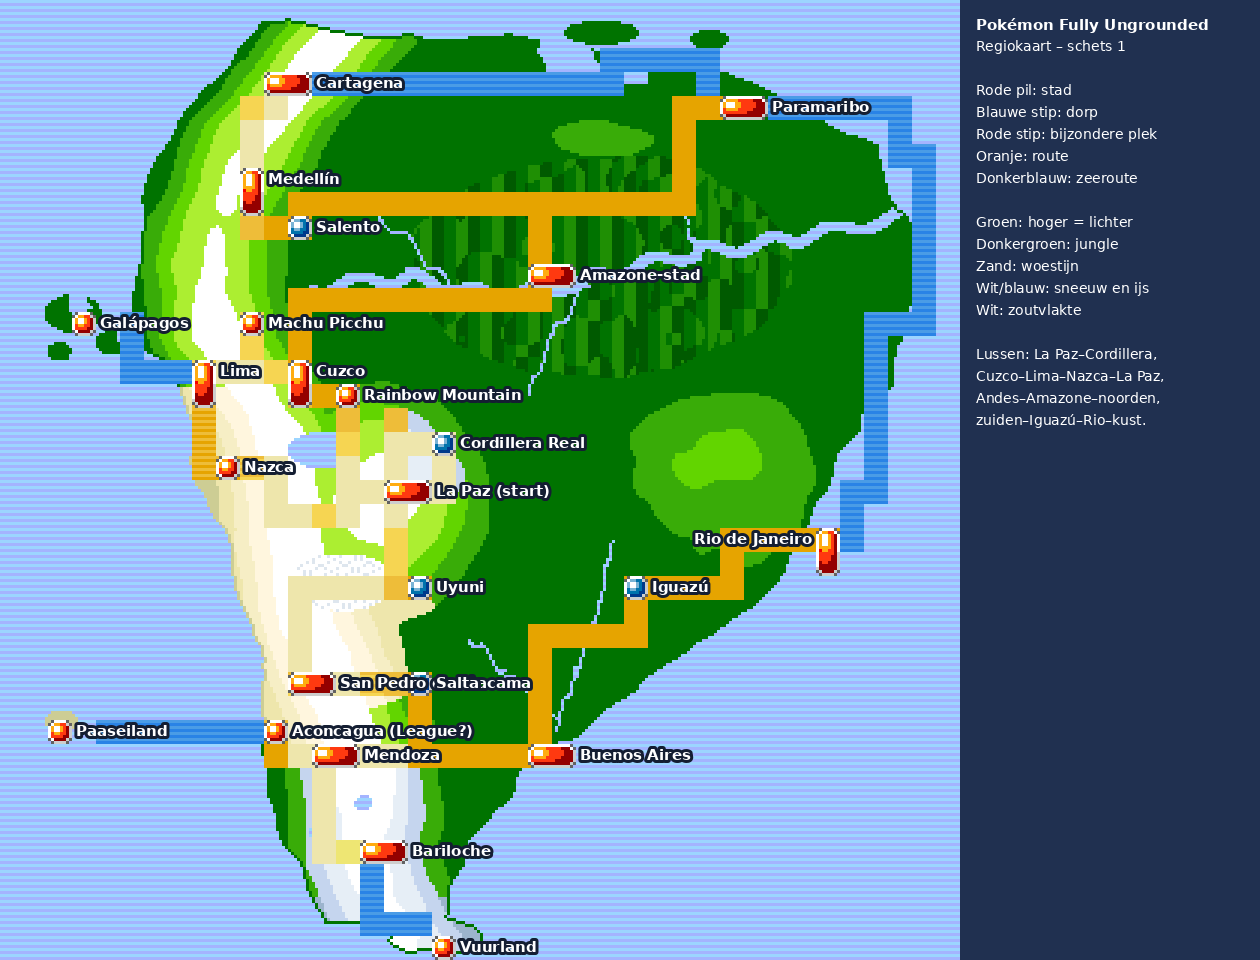
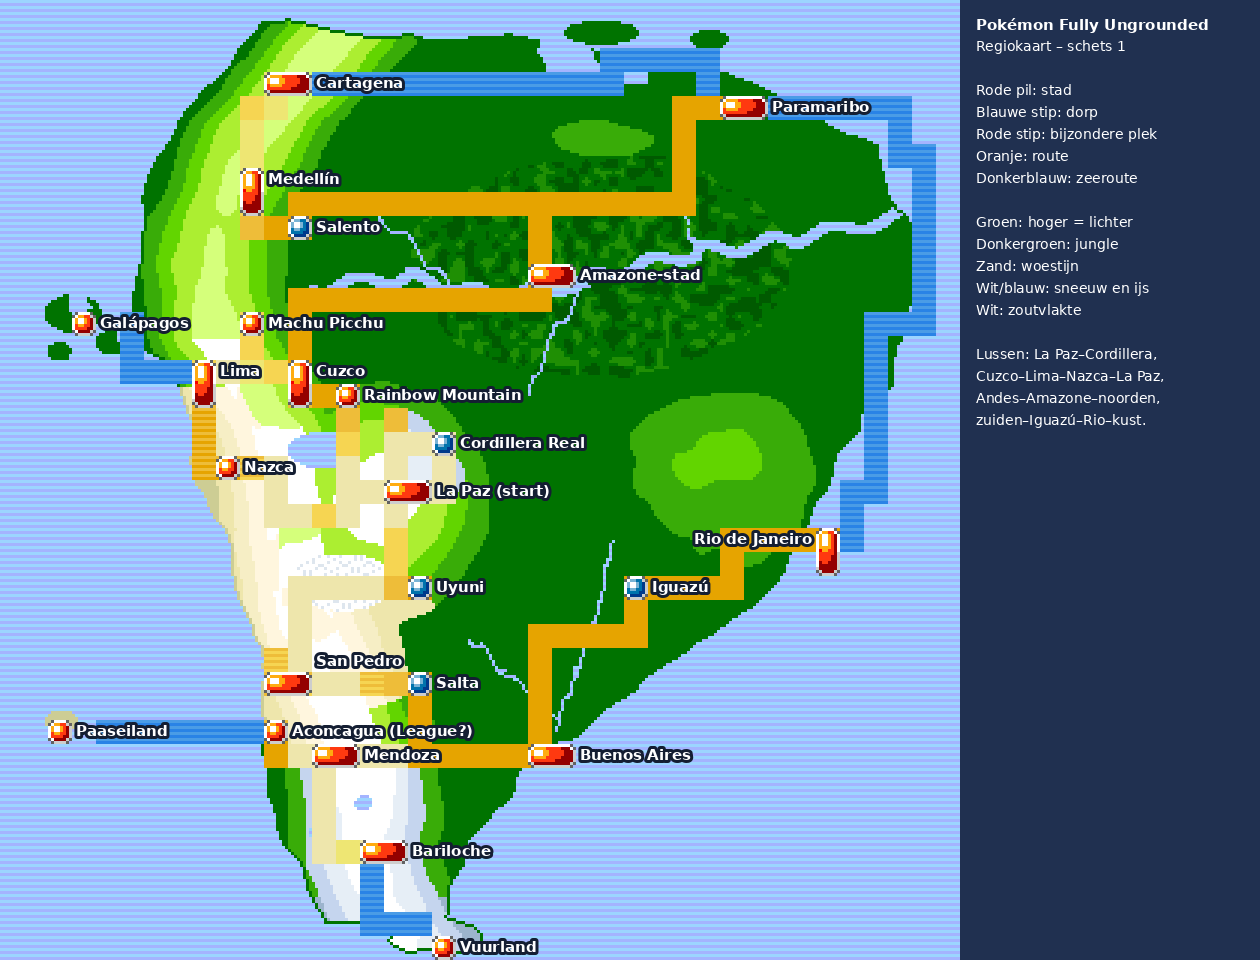
Concept: gym 1 Ground (Uyuni), backtracken/optionele content, regiokaart schets 1; changelog v0.0.2
Claude-Session: https://claude.ai/code/session_01UMtTpeD9zcUCxU9dCVsRtf

diff --git a/tools/concept/regiokaart.py b/tools/concept/regiokaart.py
@@ -87,7 +87,7 @@ desert = land & (cy > 16) & (cy < 31) & (cx < ridge - 0.6 + (n - 0.5) * 2)
 biome[desert] = 2
 puna = land & ellipse(14.5, 26.5, 4, 3) & (lvl >= 1)          # Atacama-hoogland
 biome[puna] = 2
-snow = land & (((lvl >= 4) & (cy < 31)) | ((cy > 31) & (lvl >= 2)) | (cy > 37.3)
+snow = land & (((lvl >= 4) & (cy < 31) & (n > 0.5) & (cy > 14)) | ((cy > 31) & (lvl >= 2)) | (cy > 37.3)
                | (ellipse(18, 18.5, 1.8, 2.3) & (lvl >= 2)))   # Cordillera Real naast de startstad
 biome[snow] = 3
 salt = ellipse(14.2, 24.2, 2.2, 1.2) & (n > 0.3)
@@ -127,7 +127,8 @@ def paint(mask, pal, idx):
         img[mask & (idx == i)] = c
 
 paint(land & (biome == 0), GREEN, lvl)
-paint(land & (biome == 1), JUNGLE, np.clip(((n * 7).astype(int) + (cx * 2).astype(int)) % 3, 0, 2))
+jn = value_noise(77, 3)
+paint(land & (biome == 1), JUNGLE, np.digitize(jn, [0.35, 0.7]))
 paint(land & (biome == 2), SAND, np.clip(lvl, 0, 3))
 paint(land & (biome == 3), SNOW, np.clip(lvl - 1, 0, 3))
 crack = ((xs.astype(int) + ys.astype(int) * 2) % 7 == 0) | ((xs.astype(int) - ys.astype(int) * 2) % 9 == 0)
@@ -152,7 +153,7 @@ PLACES = {
     'Lima':                (8, 15, 'cityv'),
     'Nazca':               (9, 19, 'spot'),
     'Uyuni':               (17, 24, 'town'),
-    'San Pedro de Atacama': (12, 28, 'cityh'),
+    'San Pedro':           (11, 28, 'cityh'),
     'Salta':               (17, 28, 'town'),
     'Mendoza':             (13, 31, 'cityh'),
     'Aconcagua (League?)': (11, 30, 'spot'),
@@ -192,8 +193,8 @@ path((12, 15), (8, 15))                            # Cuzco -> Lima (afdaling)
 path((8, 15), (8, 19), (9, 19))                    # kust naar Nazca
 path((9, 19), (11, 19), (11, 21), (14, 21))        # Nazca terug omhoog: lus
 path((16, 20), (16, 24), (17, 24))                 # La Paz -> Uyuni
-path((17, 24), (12, 24), (12, 28))                 # over de zoutvlakte naar San Pedro
-path((12, 28), (17, 28))                           # de busrit: San Pedro -> Salta
+path((17, 24), (12, 24), (12, 27), (11, 27), (11, 28))                 # over de zoutvlakte naar San Pedro
+path((11, 28), (17, 28))                           # de busrit: San Pedro -> Salta
 path((17, 28), (17, 31), (13, 31))                 # Salta -> Mendoza
 path((13, 31), (11, 31), (11, 30))                 # Aconcagua
 path((13, 31), (13, 35), (15, 35))                 # Mendoza -> Bariloche
@@ -270,6 +271,8 @@ small = ImageFont.truetype('/usr/share/fonts/truetype/dejavu/DejaVuSans.ttf', 14
 for name, (x, y, kind) in PLACES.items():
     w = 2 if kind == 'cityh' else 1
     tx, ty = (x + w) * 8 * S + 4, y * 8 * S + 2
+    if name == 'San Pedro':
+        ty -= 22
     if x > 30:
         tx = x * 8 * S - dr.textlength(name, font=font) - 4
     dr.text((tx, ty), name, font=font, fill=(255, 255, 255), stroke_width=3, stroke_fill=(20, 30, 50))

diff --git a/docs/concept/CONCEPT.md b/docs/concept/CONCEPT.md
@@ -5,7 +5,7 @@ Wat hier staat, is **besloten** (door Jordi). Losse ideeën staan in `IDEEEN.md`
 ## Basis
 - Vervolg op Pokémon Ungrounded, ambitieuzer en groter dan Hoenn. Fork van Ungrounded op pokeemerald-expansion: revisies, nieuwe moves/abilities en QoL blijven.
 - Nieuwe regio gebaseerd op Zuid-Amerika: geïnspireerd, niet nagemeten (zoals Hoenn op Kyushu). Eigen kaart en eigen namen.
-- 8 gyms en een Elite 4. **Gymvolgorde lineair** (houdt de levelcurve gezond), maar **de kaart niet**: lussen, zijgebieden, kortere wegen en plekken die later opengaan. E4 rond lv 80–90.
+- 8 gyms en een Elite 4. **Gymvolgorde lineair** (houdt de levelcurve gezond), maar **de kaart niet**: lussen, plekken die je op meerdere manieren bereikt, backtracken, optionele dungeons en content waar je later (met nieuwe middelen) naar terugkomt. E4 rond lv 80–90.
 - **Toon:** verhaal serieuzer dan Ungrounded; humor mag, maar is geen gimmick.
 
 ## Regio
@@ -13,9 +13,12 @@ Wat hier staat, is **besloten** (door Jordi). Losse ideeën staan in `IDEEEN.md`
 - Steden geïnspireerd op: La Paz, Cuzco, Rio de Janeiro, Lima, San Pedro de Atacama, Mendoza, Buenos Aires, Cartagena, Paramaribo, Uyuni, Bariloche, Medellín; plus originele plekken.
 
 ## Gyms en Elite 4
-- **Gymtypes:** Dark, Ice, Bug, Dragon, Ground, Grass, Fire, Poison. **Ice is gym 2** (bij het ijsgebied naast de startstad); de rest van de volgorde is nog open.
+- **Gymtypes:** Dark, Ice, Bug, Dragon, Ground, Grass, Fire, Poison. **Gym 1: Ground in Uyuni** (direct vanuit La Paz naar de zoutvlakte), **gym 2: Ice** (ijsgebied naast de startstad); de rest van de volgorde is nog open.
 - **Elite 4:** Electric, Flying, Ghost, Steel.
 - Niet als gym/E4: Normal, Water, Fighting, Psychic, Rock, Fairy (kampioen open).
+
+## Regiokaart
+- Schets 1: `regiokaart.png` / `regiokaart_namen.png` (gemaakt met `tools/concept/regiokaart.py`, in de stijl van de Emerald-regiokaart).
 
 ## Mythologie
 - Speelt een rol. Verhouding zoals nu: weinig mensen geloven er letterlijk in, maar de goden en geesten worden nog geëerd (traditie).

diff --git a/CHANGELOG.md b/CHANGELOG.md
@@ -6,3 +6,9 @@ De changelog van Pokémon Ungrounded staat in `docs/ungrounded/CHANGELOG_UNGROUN
 - Nieuwe repo `Pokemon-Fully-Ungrounded` met de volledige geschiedenis van Ungrounded (basis: `claude/dazzling-babbage-ud6oxr`, 22 okt) en daarmee van pokeemerald-expansion 1.14.4.
 - Opgeruimd: 72 bronbestanden in de hoofdmap (mp3's, zips, gsf-rips, losse plaatjes en MIDI's); 35 plannings-/ontwerpdocumenten van Ungrounded naar `docs/ungrounded/`.
 - Nieuw: `docs/concept/IDEEEN.md` (brainstorm), `TODO.md` (fases van het skelet), CLAUDE.md bijgewerkt voor het nieuwe project.
+
+### [v0.0.2] - Spire, Battle Stadium en Battle Casino eruit; concept en regiokaart
+- **Verwijderd:** The Spire (code, kaart, graphics, save-blok, alle gevechtshooks), het Battle Stadium (72 Stadium-trainers, 130 partners, 49 ongebruikte trainerfoto's, kaarten, slides) en het Battle Casino (kaart, specials, flags). Gewone gevechten werken zoals voorheen; gimmicks blijven uit. `VAR_STADIUM_STATE`/`VAR_CASINO_BETS` zijn weer vrij (`VAR_UNUSED_0x40B8`/`0x40BB`). ROM: 492 KB → 814 KB vrij.
+- Bewust blijven staan: 7 ongebruikte Kanto/N-overworldsprites (hernummeren is riskant), Stadium-trainerklassen, de trainerfoto-generatoren (maken ook nog gebruikte foto's), de Frontier-kaarten (gaan mee met Hoenn).
+- **Concept:** `docs/concept/CONCEPT.md` (besloten: starters Fighting → Dark → Psychic, gym 1 Ground in Uyuni, gym 2 Ice, gymtypes en E4, Inca-trio + Pachamama, toon) en `docs/concept/IDEEEN.md`.
+- **Regiokaart, schets 1:** `docs/concept/regiokaart_namen.png`, met `tools/concept/regiokaart.py` in de stijl van de Emerald-kaart (kleuren en stadsiconen uit `graphics/pokenav/region_map`).

diff --git a/TODO.md b/TODO.md
@@ -2,7 +2,7 @@
 
 ## Fase 0: skelet (bezig)
 1. ~~Fork + repo opruimen~~ (bronbestanden weg, Ungrounded-docs naar `docs/ungrounded/`).
-2. Spire, Battle Stadium en Battle Casino eruit (code, kaarten, graphics).
+2. ~~Spire, Battle Stadium en Battle Casino eruit~~ (v0.0.2).
 3. Overige Ungrounded-content eruit: Spacetime (+ Area Zero-muziek), Yoshi's Island, Rainbow Road/Bowser Castle, Ultra Space, legendary-/gym-/klasse-intro's en films (tools blijven), overgenomen muziek uit andere games, Battle Frontier/Tents/Trick House.
 4. Expansion bijwerken: 1.14.4 → 1.17.1 (proefmerge 22 okt: 192 bestanden met conflicten, waarvan veel in `src/data/graphics/pokemon.h`/`cry_tables.inc` door onze Mega/Gmax-verwijzingen; die kant van upstream nemen en opnieuw toepassen).
 5. Nieuwe start: nieuw spel begint in een plaatshouder-startstad (La Paz-achtig) in een eigen kaartgroep; titel "Pokémon Fully Ungrounded".
